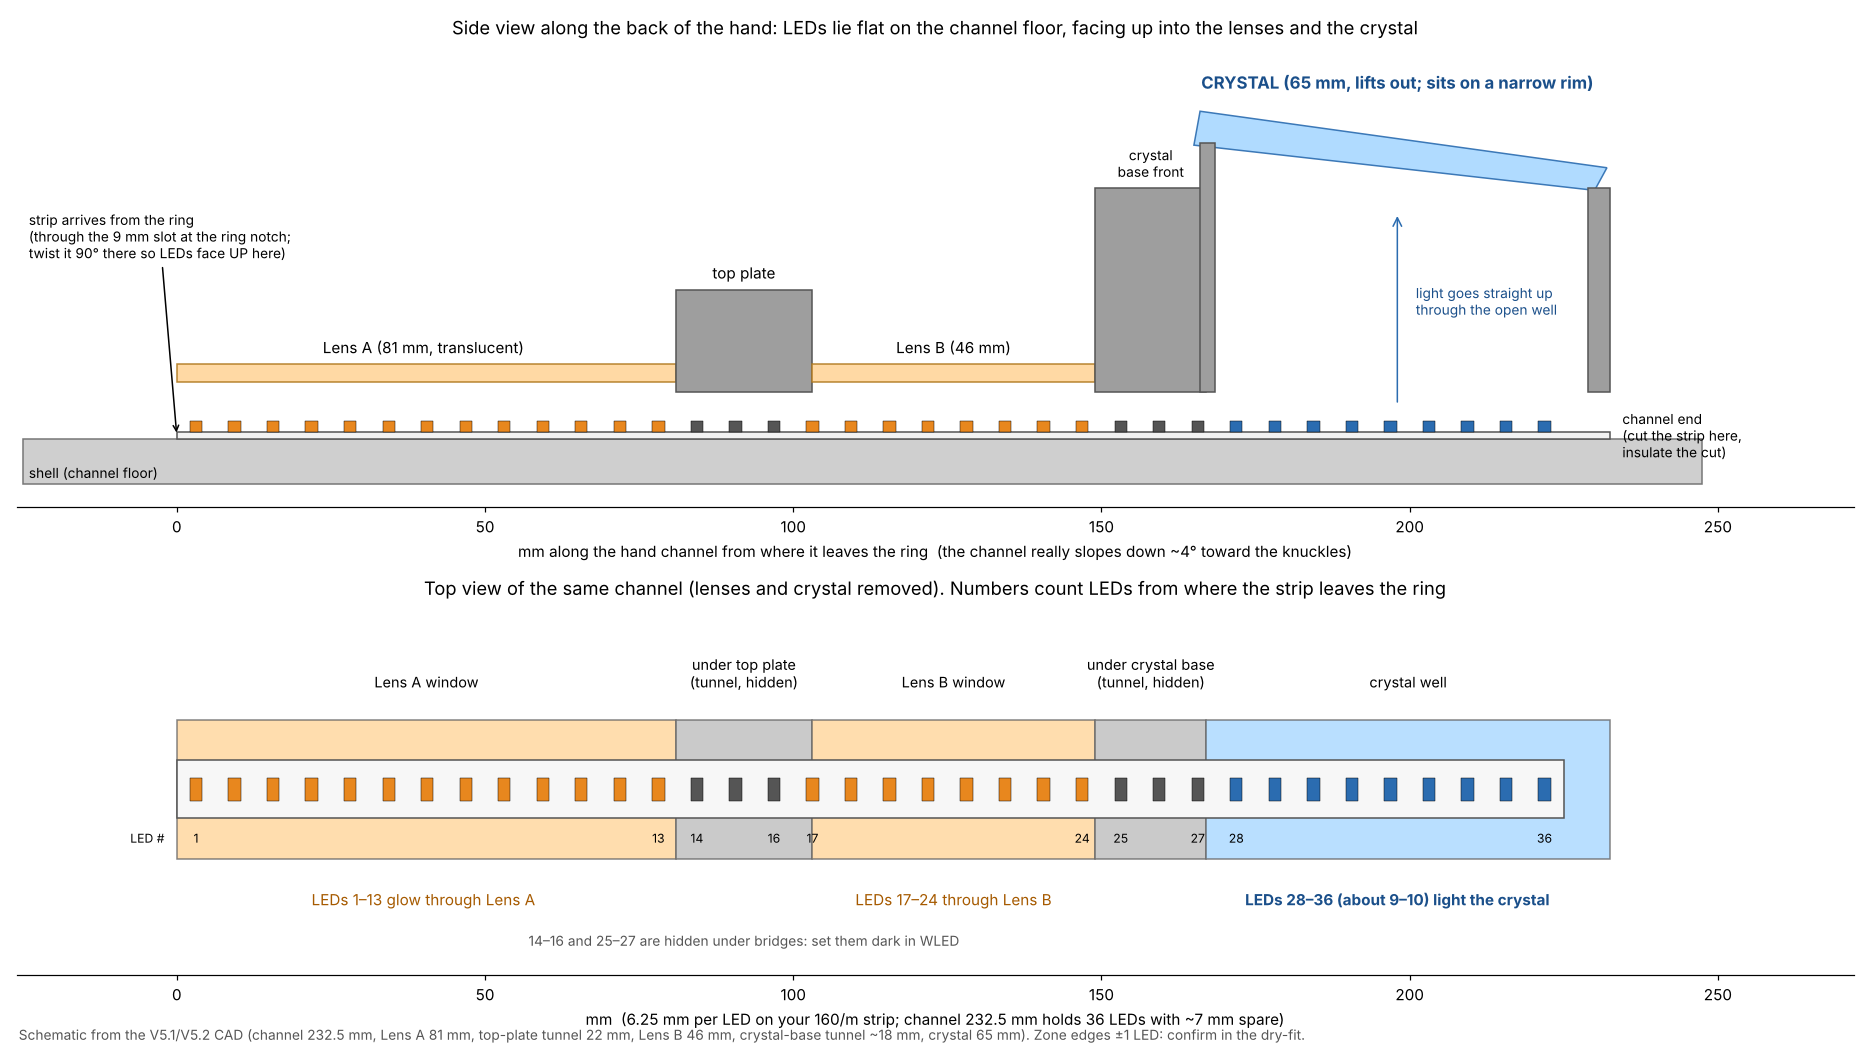
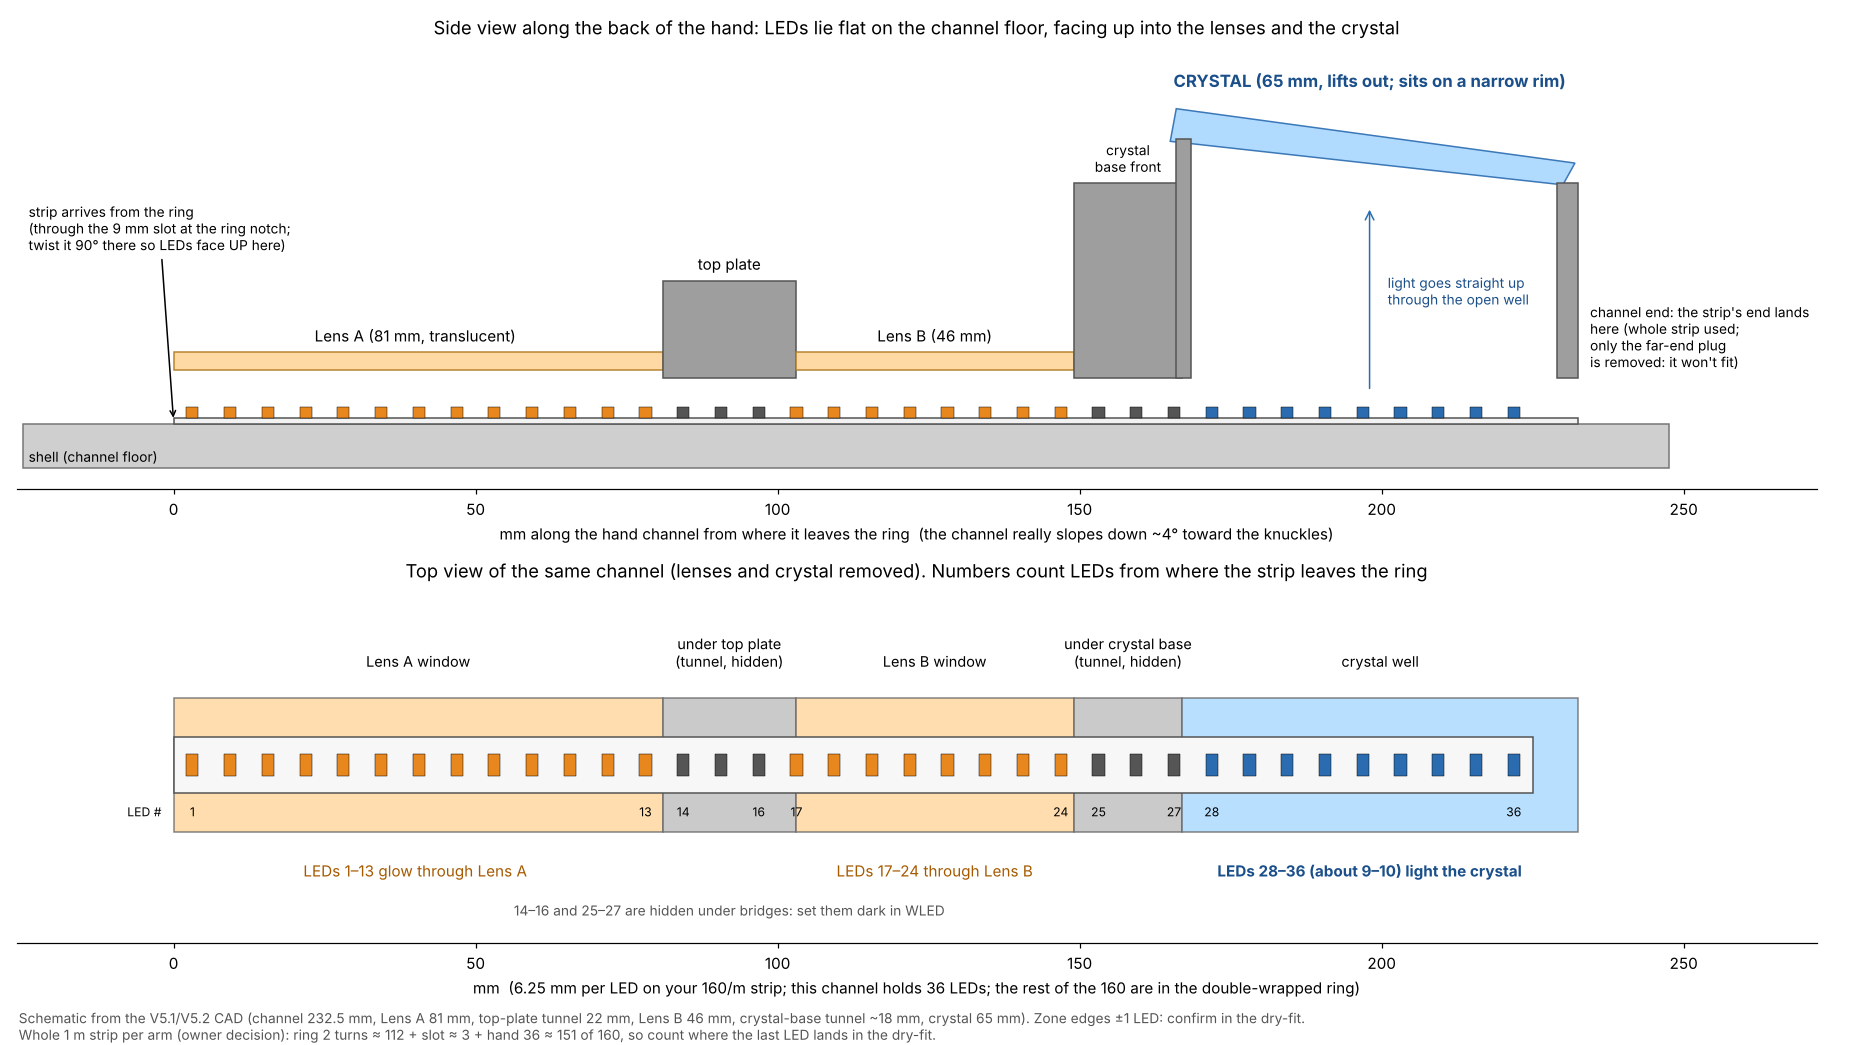
Whole strip per arm, no LEDs cut (owner re-confirmed); fix layout figure
Claude-Session: https://claude.ai/code/session_01VQd7wERkqoug46iiVrhoJP

diff --git a/electronics/concepts/2026-11-22_controller_placement_option_A/scripts/crystal_fig.py b/electronics/concepts/2026-11-22_controller_placement_option_A/scripts/crystal_fig.py
@@ -20,7 +20,7 @@ a1.add_patch(Rectangle((166,2.2),2.5,22,fc='#9e9e9e',ec='#555')); a1.add_patch(R
 a1.text(198,29,'CRYSTAL (65 mm, lifts out; sits on a narrow rim)',ha='center',fontsize=11,color='#1a4f8a',weight='bold')
 a1.add_patch(FancyArrowPatch((198,1),(198,18),arrowstyle='->',mutation_scale=14,color='#2b6cb0')); a1.text(201,9,'light goes straight up\nthrough the open well',fontsize=9,color='#1a4f8a')
 a1.annotate('strip arrives from the ring\n(through the 9 mm slot at the ring notch;\ntwist it 90° there so LEDs face UP here)',xy=(0,-1.7),xytext=(-24,14),arrowprops=dict(arrowstyle='->'),fontsize=9)
-a1.text(L+2,-1.7,'channel end\n(cut the strip here,\ninsulate the cut)',fontsize=9,va='center')
+a1.text(L+2,6,'channel end: the strip\'s end lands\nhere (whole strip used;\nonly the far-end plug\nis removed: it won\'t fit)',fontsize=9,va='center')
 a1.set_xlim(-26,272); a1.set_ylim(-8,33); a1.set_yticks([]); a1.set_xlabel('mm along the hand channel from where it leaves the ring  (the channel really slopes down ~4° toward the knuckles)')
 a1.set_title('Side view along the back of the hand: LEDs lie flat on the channel floor, facing up into the lenses and the crystal',fontsize=12)
 for s in ['top','right','left']: a1.spines[s].set_visible(False)
@@ -37,8 +37,8 @@ a2.text(40,-10,'LEDs 1–13 glow through Lens A',ha='center',fontsize=10,color='
 a2.text(126,-10,'LEDs 17–24 through Lens B',ha='center',fontsize=10,color='#a65a00')
 a2.text(198,-10,'LEDs 28–36 (about 9–10) light the crystal',ha='center',fontsize=10,color='#1a4f8a',weight='bold')
 a2.text(92,-13.5,'14–16 and 25–27 are hidden under bridges: set them dark in WLED',ha='center',fontsize=9,color='#555')
-a2.set_xlim(-26,272); a2.set_ylim(-16,16); a2.set_yticks([]); a2.set_xlabel('mm  (6.25 mm per LED on your 160/m strip; channel 232.5 mm holds 36 LEDs with ~7 mm spare)')
+a2.set_xlim(-26,272); a2.set_ylim(-16,16); a2.set_yticks([]); a2.set_xlabel('mm  (6.25 mm per LED on your 160/m strip; this channel holds 36 LEDs; the rest of the 160 are in the double-wrapped ring)')
 a2.set_title('Top view of the same channel (lenses and crystal removed). Numbers count LEDs from where the strip leaves the ring',fontsize=12)
 for s in ['top','right','left']: a2.spines[s].set_visible(False)
-fig.text(0.01,0.005,'Schematic from the V5.1/V5.2 CAD (channel 232.5 mm, Lens A 81 mm, top-plate tunnel 22 mm, Lens B 46 mm, crystal-base tunnel ~18 mm, crystal 65 mm). Zone edges ±1 LED: confirm in the dry-fit.',fontsize=9,color='#555')
-fig.tight_layout(); fig.savefig('hand_crystal_layout.png',dpi=110)
+fig.text(0.01,0.005,'Schematic from the V5.1/V5.2 CAD (channel 232.5 mm, Lens A 81 mm, top-plate tunnel 22 mm, Lens B 46 mm, crystal-base tunnel ~18 mm, crystal 65 mm). Zone edges ±1 LED: confirm in the dry-fit.\nWhole 1 m strip per arm (owner decision): ring 2 turns ≈ 112 + slot ≈ 3 + hand 36 ≈ 151 of 160, so count where the last LED lands in the dry-fit.',fontsize=9,color='#555')
+fig.tight_layout(rect=(0,0.03,1,1)); fig.savefig('hand_crystal_layout.png',dpi=110)

diff --git a/notes/LED_Wiring_Start_Here.md b/notes/LED_Wiring_Start_Here.md
@@ -44,21 +44,21 @@ Details: [[electronics/HARDWARE_AS_BOUGHT]].
 - Firmware: `LED_PIN 32`, `MODE_PIN 14`, `ACTION_PIN 27`, `LIMIT_MA 1000` ([[electronics/firmware/README]]). WLED presets: `electronics/wled/presets_144.json` (ring [0,55), hand [55,80), crystal [80,91)).
 
 ## Strip routing (owner decision 2026-11-22)
-- **Hand channel + crystal layout (dry-fit guide):** `electronics/concepts/2026-11-22_controller_placement_option_A/hand_crystal_layout.png`. Strip lies flat, LEDs up; from the ring: LEDs 1–13 under Lens A, 14–16 hidden (top plate), 17–24 Lens B, 25–27 hidden (crystal base front), 28–36 light the crystal; cut at the channel end. Twist 90° in the notch slot.
+- **Hand channel + crystal layout (dry-fit guide):** `electronics/concepts/2026-11-22_controller_placement_option_A/hand_crystal_layout.png`. Strip lies flat, LEDs up; from the ring: LEDs 1–13 under Lens A, 14–16 hidden (top plate), 17–24 Lens B, 25–27 hidden (crystal base front), 28–36 light the crystal; the strip's end lands at the channel end. Twist 90° in the notch slot.
 - **One continuous strip per arm** from the ring into the hand channel, no cut between ring and hand (owner's call; physical turn into the notch slot still to be checked on printed R_08).
 - **Near end** (owner's term) = strip input end: keeps its **factory JST connector**, which passes out through the ring's exit hole and plugs into the ESP32 pigtail in the cavity. No connector sits inside the trough.
 - **Far end**: the far-end factory JST **does not fit** the opening toward the hand channel (owner fit check 2026-11-22), so it is cut off before threading and stays on the offcut; the leading end must be bare. The bare strip passes the round hole. Thread once (or twice, see below) around the trough **outer wall** (LEDs facing inward), through the notch slot into the hand channel, then trim at the crystal end in place. (The earlier "cut at ~100 LEDs" note is superseded by the whole-1-m decision below.)
 - LEDs hidden in the slot are set off in WLED; zone counts (ring / gap / hand / crystal) to be recounted after the physical fit.
 - ESP32 pigtail soldered by owner 2026-11-22 (red/green/white); pad check against silkscreen done from photos: red 5V, green 32, white G, 33 empty.
 - Don't stick the strip down until the bench test passes. Each arm needs its own 1 m reel.
-- **Owner decision 2026-11-22: use the whole 1 m per arm, ring wrapped twice** (two rows on the outer wall; ~110 ring + ~36 hand/crystal ≈ 146 LEDs). Dry-fit on R_08 pending; the 91-LED layout below is superseded once the fit is confirmed and LEDs recounted.
+- **Owner decision 2026-11-22 (re-confirmed 21:47): use the WHOLE 1 m strip per arm, do not cut LEDs off; ring wrapped twice**. Only the far-end factory plug/cable is removed (it does not fit the opening). Estimate: ring 2 turns ≈ 112 + slot ≈ 3 + hand 36 ≈ 151 of 160; where the last LEDs land is checked in the dry-fit (two rows on the outer wall; ~110 ring + ~36 hand/crystal ≈ 146 LEDs). Dry-fit on R_08 pending; the 91-LED layout below is superseded once the fit is confirmed and LEDs recounted.
 
 ## Next steps (in order)
 1. **Bench test board 1: DONE, PASS (2026-11-22).** First light, R/G/B (GRB), rainbow on all 160; 10+ min at 91 LEDs / 1000 mA full white: everything warm, no restarts. Restarts seen earlier were the strip's bare pads shorting when coiled. Details in [[04_Test_Log]]. Still open: heat with the strip enclosed under the cover (do at first in-arm power-up). **Board 2 + strip 2: PASS (owner, 2026-11-22).** Both boards still named `WLED-AP`: rename (Config → WiFi Setup → AP SSID) before powering both at once.
 2. Mirror results to GitHub issues #10–#13 (not yet done).
 3. **Dry-fit** the double ring wrap on printed R_08; count LEDs per turn → set WLED segments (ring / hand / crystal).
 4. **Placement (option A) concept done 2026-11-22:** [[electronics/concepts/2026-11-22_controller_placement_option_A/README]]. Test-print sled (R/L) and cover; hold the sled against printed shell 08 before gluing. Button pod: **v2** (`print/Button_Pod_v2_HUAZIZ_for_18p8_printed_handle` / `..._18p0_beech_rod`) has pockets for the HUAZIZ buttons (island + leg/solder channel + bottom wire exit; glue with Poly Max). Fit test on the owner's A1 Mini plate 2026-11-22; final pod in PETG.
-5. Update [[electronics/WIRING]] fully for the Sparkle Motion Mini and option A (wire lengths ~5 / 18 / 20 cm + slack; keep strip pads apart and off metal; insulate the cut end).
+5. Update [[electronics/WIRING]] fully for the Sparkle Motion Mini and option A (wire lengths ~5 / 18 / 20 cm + slack; keep strip pads apart and off metal; insulate the strip end where the far-end plug was removed).
 6. Owner decision pending: "breathing all the time, button triggers an effect then returns to breathing" (durations and button mapping).
 7. Check WLED effect IDs on the device (IDs 13/15 in the presets may be wrong).
 

diff --git a/HANDOFF.md b/HANDOFF.md
@@ -49,6 +49,10 @@ tags:
 - Whether to flatten the lens undersides (cosmetic; they print fine as is).
 
 ## Latest actions (newest first; one short entry each)
+### 2026-11-22 21:50 CET, Claude (LED session)
+- Owner re-confirmed: **whole 1 m strip per arm, no LEDs cut off** (only the far-end plug removed). Decision Log, LED Start Here and the new hand/crystal layout figure (`electronics/concepts/2026-11-22_controller_placement_option_A/hand_crystal_layout.png`) corrected; Claude memory updated. Owner button roles recorded (B1 on/cycle, B2 Hextech burst).
+- Sync: PUSHED (see git log).
+
 ### 2026-11-22 21:40 CET, Claude (LED session)
 - Merge note: this session also sent the owner a "pod v2" at 17:30 with the **same file names** but different pockets (12.6 square + tab cross slots, leg cavity with pillar). **Superseded:** the canonical v2 is the print session's (`scripts/pod_export_v2.py`, already on the A1 plate). Owner: discard the 17:30 copies. Noted in the concept print/README. Claude project memory updated.
 - Sync: PUSHED (see git log).

diff --git a/notes/03_Decision_Log.md b/notes/03_Decision_Log.md
@@ -37,3 +37,4 @@ See [[docs/DECISIONS_AND_HISTORY]] and [[HANDOFF]].
 - **2026-11-22 / Owner:** Reprint both pressure gauges in transparent PLA and paint the areas that should not glow (more light from the ring shows through). Gauge sits directly on the ring cover over the LEDs.
 - **2026-11-22 / Owner:** A1 Mini plate = 2 transparent gauges + button pod fit test; thumb bases printed later.
 - **2026-11-22 / Owner:** Button roles (2 buttons per arm): **button 1 = power on + cycle through effects**, **button 2 = a 'Hextech power-up explosion' burst**, then back to the normal look. Effects, burst length and button-LED wiring (always-on via 470 Ω from 5V proposed) still to confirm.
+- **2026-11-22 21:47 / Owner (re-confirmed):** **No cutting LEDs off: the whole 1 m strip is used in each arm** (ring wrapped twice, then the hand channel and crystal). Only the far-end factory plug is removed because it does not fit. Any agent planning a strip layout must start from 160 LEDs per arm.

diff --git a/notes/sessions/2026-11-21_claude_led-bench-test.md b/notes/sessions/2026-11-21_claude_led-bench-test.md
@@ -257,3 +257,4 @@ tags: [agents, session, electronics, leds, wled]
 ### 2026-11-22 20:45 UTC — Action 40: hand/crystal layout figure
 - Owner asked for a visual of the crystal LED layout for the dry-fit. Drew schematic from V5.1/V5.2 numbers (channel 232.5, Lens A 81, tunnel 22, Lens B 46, tunnel ~18, crystal 65; 6.25 mm pitch → 36 LEDs). Saved as hand_crystal_layout.png; Start Here line added.
 - Sync: LOCAL.
+- 20:47 UTC: owner corrected me: no cutting, whole strip. My figure and Start Here line said 'cut at the channel end' (wrong). Fixed figure, Start Here, Decision Log (re-confirmation), HANDOFF; memory updated. Pushed.
